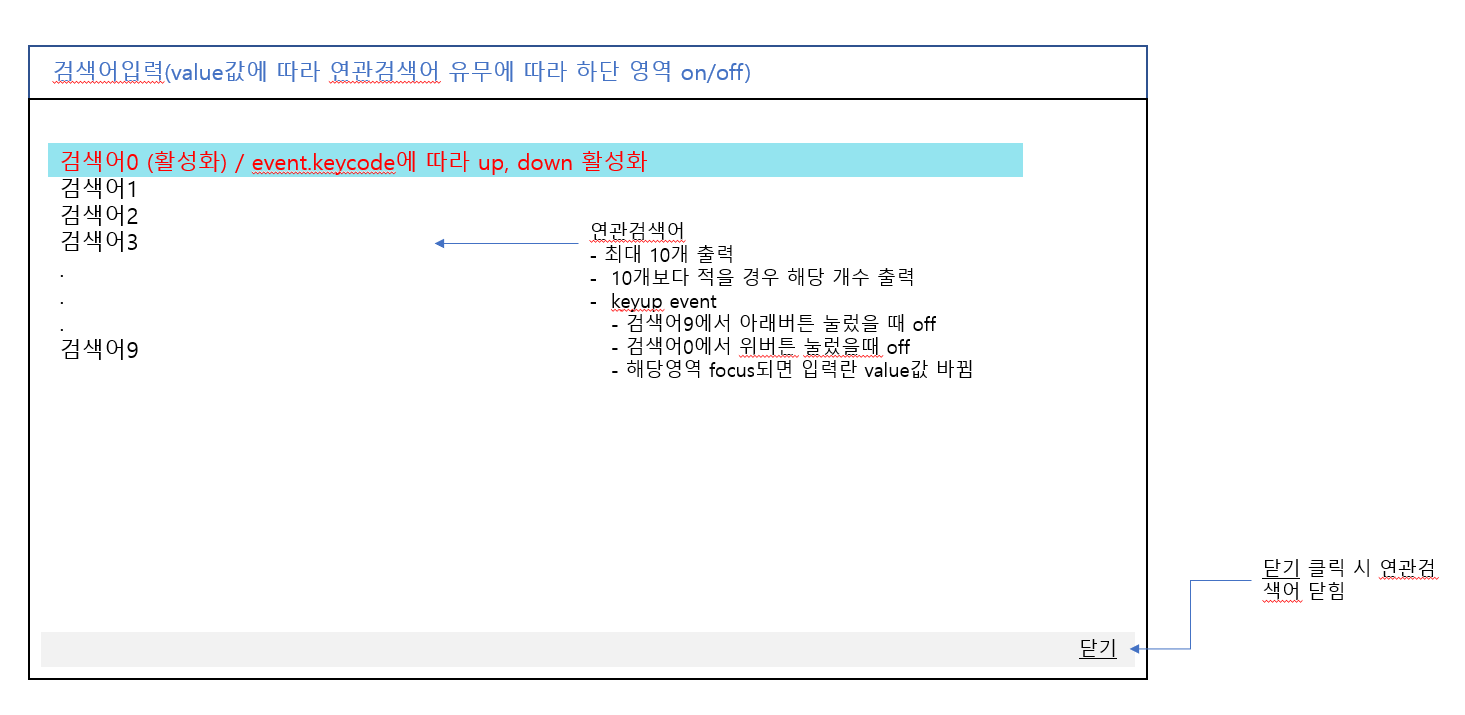
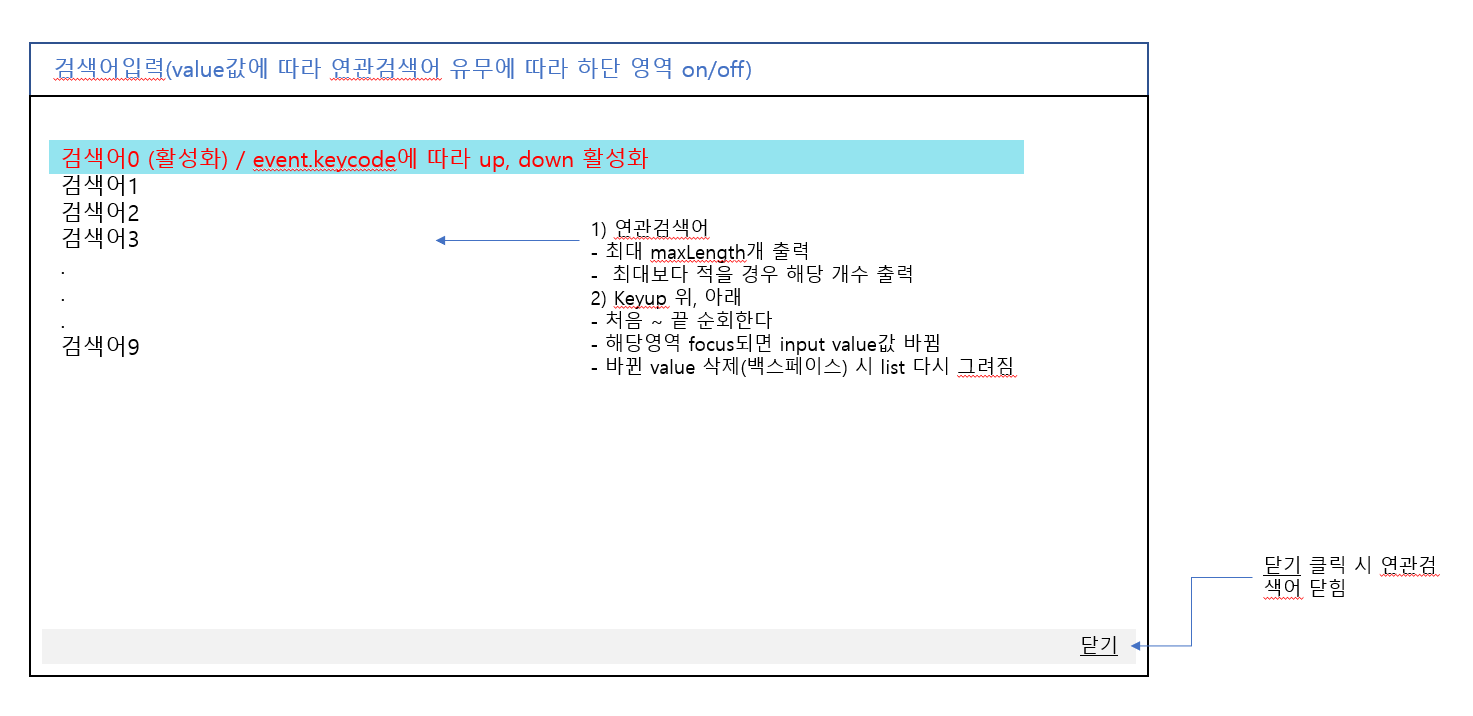
200814 수정사항 커밋, PR요청

diff --git a/송창석/search.js b/송창석/search.js
@@ -1,9 +1,9 @@
 // Search TODO
 
-class formSeach {
-    constructor (selector, count) {
+class formSearch {
+    constructor (selector, maxLength) {
         this.selector = selector;
-        this.count = count;
+        this.maxLength = maxLength;
     }
     setInit() {
         const searchEl = {
@@ -12,86 +12,63 @@ class formSeach {
             input: document.querySelector("#search-input"),
             close: document.querySelector(".close button"),
             list: document.querySelector(".related_list"),
-            item: null
+            maxLength: this.maxLength,
+            items: null,
+            focusIndex: null
         }
-        
         this.setEvent(searchEl);
     }
     setEvent(searchEl) {
         searchEl.form.addEventListener('submit', (event) => {
             event.preventDefault();
-            console.log(searchEl.input.value);
+            if(searchEl.input.value === '') alert(`검색어를 입력해주세요.`);
+            if(searchEl.input.value) alert(`${searchEl.input.value} 검색`);
         });
         
-        let actIdx = null;
         searchEl.input.addEventListener('keyup', (event) => {
-            const value = event.target.value;
-            const components = keyFilter(value);
-            renderItem(searchEl, components);
-
-            if(value) showRelateList(searchEl);
-            if(value === '') hideRelateList(searchEl);
-            if(event.keyCode === 40) {
-                searchEl.item[0].focus();
-                searchEl.input.value = searchEl.item[0].innerText;
-            };
-
-            actIdx = 0;
-        });
-        
-        searchEl.list.addEventListener('keyup', (event) => {
-            if(event.keyCode === 40) actIdx = actIdx + 1;
-            if(event.keyCode === 38) actIdx = actIdx - 1;
             if(event.keyCode === 40 || event.keyCode === 38) {
-                focusList(actIdx, searchEl);
+                if (event.keyCode === 40) searchEl.focusIndex = searchEl.focusIndex >= searchEl.items.length - 1 ? 0 : searchEl.focusIndex + 1;
+                if (event.keyCode === 38) searchEl.focusIndex = searchEl.focusIndex <= 0 ? searchEl.items.length - 1 : searchEl.focusIndex - 1;
+                focusList(searchEl.focusIndex, searchEl.items, searchEl.input);
+            } else if(event.keyCode != 13) {
+                const components = keyFilter(event.target.value, searchEl.maxLength);
+                renderItems(searchEl, components);
+                searchEl.focusIndex = searchEl.items.length;
             }
-        })
 
-        searchEl.close.addEventListener('click', () => {
-            hideRelateList(searchEl)
-        })
+            if(event.target.value) showRelateList(searchEl.wrapper);
+            if(event.target.value === '') hideRelateList(searchEl.wrapper);
+        });
+
+        searchEl.close.addEventListener('click', () => hideRelateList(searchEl.wrapper));
     }
 }
 
-const keyFilter = (value) => {
-    let filtered = keyword.filter(word => {
+const keyFilter = (value, maxLength) => {
+    const filtered = keyword.filter(word => {
         if(word.substring(0, value.length).indexOf(value) > -1) return word
-    })
-    filtered = filtered.slice(0, filtered.length);
-    if(filtered.length > 10) filtered = filtered.slice(0, 10);
+    }).slice(0, maxLength);
     
     let renderGroup = [];
-    for(let i = 0; i < filtered.length; i++) {
-        renderGroup += `<li data-idx="${i}"><button>${filtered[i]}</button></li>`
-    }
-    
+    for(let i = 0; i < filtered.length; i++) renderGroup += `<li data-idx="${i}"><a href="#n">${filtered[i]}</a></li>`;
     return renderGroup;
 }
 
-const renderItem = (el, components) => {
+const renderItems = (el, components) => {
     el.list.innerHTML = components;
-    el.item = el.list.querySelectorAll("button");
+    el.items = el.list.querySelectorAll("a");
 }
 
-const focusList = (idx, el) => {
-    if(idx < 0 || idx >= el.item.length) {
-        el.input.focus();
-        return hideRelateList(el);
-    };
-    if(0 < idx < el.item.length) {
-        el.input.value = el.item[idx].innerText
-        return el.item[idx].focus();
-    };
+const focusList = (idx, items, input) => {
+    items.forEach(item => item.classList.remove('focused'));
+    items[idx].classList.add('focused');
+    input.value = items[idx].innerText;
 }
 
-const showRelateList = (el) => {
-    el.wrapper.classList.add("has_value");
-}
-const hideRelateList = (el) => {
-    el.wrapper.classList.remove("has_value");
-}
+const showRelateList = (wrapper) => wrapper.classList.add("has_value");
+const hideRelateList = (wrapper) => wrapper.classList.remove("has_value");
 
 
 
-const search = new formSeach('#search');
+const search = new formSearch('#search', 10);
 search.setInit();

diff --git a/송창석/style.css b/송창석/style.css
@@ -1,14 +1,13 @@
 #wrap{overflow:hidden;width:100%;height:100vh;padding:50px 0;text-align:center}
 #wrap *{font-size:16px}
-#wrap button{cursor: pointer;}
+#wrap button{cursor:pointer}
 .inner{width:100%;padding:30px;background-color:#e7e7e7}
+
 #search{position:relative}
 #search.has_value .relate{display:block}
-
 .input{display:block;width:100%;height:100%}
 .input input{display:block;width:100%;height:100%;padding:15px;border:1px solid #222}
 .input input:focus{border-color:#1D4CD8}
-
 .relate{display:none;position:absolute;width:100%;background-color:#fff;border:1px solid #ddd}
 .relate .close{background-color:#e7e7e7;padding:10px 15px;text-align:right}
 .relate .close button{text-decoration:underline}
@@ -17,4 +16,6 @@
 .relate .related_list a:focus,
 .relate .related_list a:hover,
 .relate .related_list button:focus,
-.relate .related_list button:hover{color:#1D4CD8;background-color:rgba(175, 192, 245, 0.3);outline:none}
+.relate .related_list button:hover,
+.relate .related_list a.focused,
+.relate .related_list button.focused{color:#1D4CD8;background-color:rgba(175, 192, 245, 0.3);outline:none}

diff --git a/송창석/index.html b/송창석/index.html
@@ -11,17 +11,11 @@
     <div id="wrap">
         <div class="inner">
             <div id="search">
-                <form name="form-search">
-                    <span class="input"><input type="text" placeholder="검색어 입력" id="search-input" autocomplete="off"></span>
-                    <div class="relate">
-                        <div class="word">
-                            <ul class="related_list">
-
-                            </ul>
-                        </div>
-                        <div class="close"><button type="button">닫기</button></div>
-                    </div>
-                </form>
+                <form name="form-search" class="input"><input type="text" placeholder="검색어 입력" id="search-input" autocomplete="off"></form>
+                <div class="relate">
+                  <ul class="related_list"></ul>
+                  <div class="close"><button type="button">닫기</button></div>
+                </div>
             </div>
         </div>
     </div>
